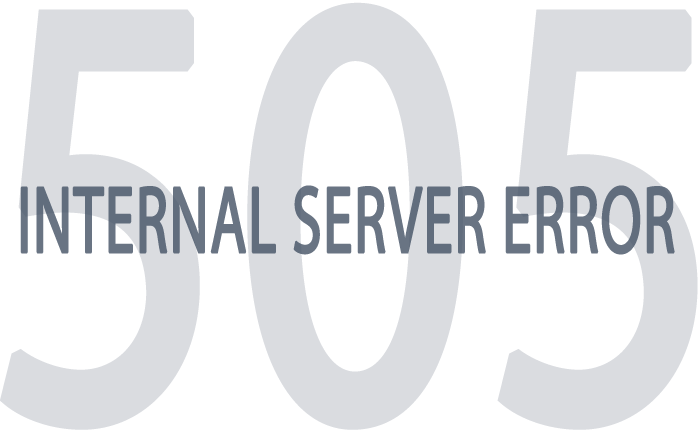
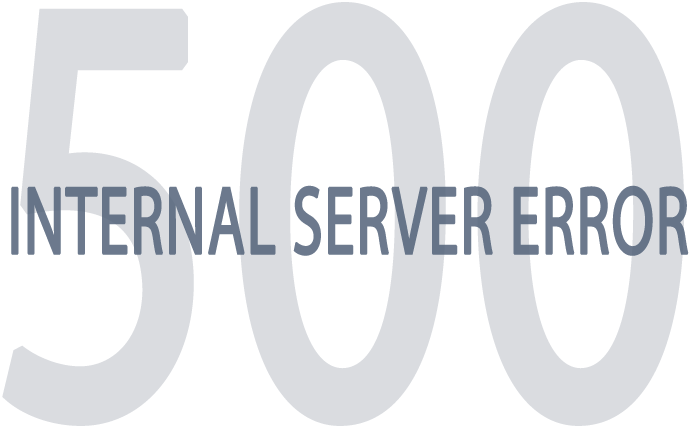
create Routing, update images name

diff --git a/frontend/src/App.tsx b/frontend/src/App.tsx
@@ -1,19 +1,74 @@
 // import Login from './authentication/Login'
-// import MainNavBar from "./components/MainNavbar/MainNavBar";
-// import Home from "./page/Home";
-// import NotFound from "./page/404NotFound";
-
+import MainNavBar from "./components/MainNavbar/MainNavBar";
 import "./index.css";
+import { Routes, Route, Outlet } from "react-router-dom";
+import Profile from "./page/userprofile/Profile";
+import ImportSectionClassList from "./page/classmanagement/ImportSectionClassList";
+import ImportStudentList from "./page/tainformationmanagement/ImportStudentList";
+import MainSideBar from "./components/SideBar/MainSideBar";
+import { Col, Container, Row } from "react-bootstrap";
+import Login from "./authentication/Login";
+import NotFound from "./page/404NotFound";
 import Error500 from "./page/500Error";
+// import MainSideBar from "./components/SideBar/MainSideBar";
+
+
+const Layout = () => {
+  return (
+    <>
+      <MainNavBar />
+      <Container fluid>
+        <Row>
+          <Col xs={2} id="sidebar-wrapper">
+            <MainSideBar />
+          </Col>
+          <Col xs={10} id="page-content-wrapper">
+           <Outlet /> 
+          </Col>
+        </Row>
+      </Container>
+    </>
+  )
+}
 
 function App() {
   return (
-    <div className="">
-      {/* <Login />
-      <MainNavBar />
-      <Home /> */}
-      {/* <NotFound /> */}
-      <Error500 />
+    <div>
+        <Routes>
+          <Route element={<Layout />}>
+            <Route path="/" element={<></>} />
+            <Route path="/user-profile" element={<Profile />} />
+            <Route path="/ta-information-management">
+              <Route path="schedule" element="" />
+              <Route path="ta-register" element="" />
+              <Route path="class-information" element="" />
+              <Route path="ta-register-list" element="" />
+              <Route path="import-student-list" element={<ImportStudentList />} />
+            </Route>
+
+            <Route path="/task-mission-magagement" element="">
+              <Route path="task-mission" element="" />
+              <Route path="feedbacks-ta" element="" />
+            </Route>
+
+            <Route path="/class-management" element="">
+              <Route
+                path="import-setion-class-list"
+                element={<ImportSectionClassList />}
+              />
+              <Route path="attendance" element="" />
+            </Route>
+
+            <Route path="/feedback-and-statistic" element="">
+              <Route path="feedbacks" element="" />
+              <Route path="statistic" element="" />
+            </Route>
+          </Route>
+          <Route path="/login" element={<Login />} />
+          <Route path="/404" element={<NotFound />} />
+          <Route path="/500" element={<Error500 />} />
+          <Route path="*" element={<NotFound />} />
+        </Routes>
     </div>
   );
 }

diff --git a/frontend/src/components/SideBar/MainSideBar.tsx b/frontend/src/components/SideBar/MainSideBar.tsx
@@ -1,5 +1,16 @@
-import { Accordion, NavLink } from "react-bootstrap";
+import { Accordion } from "react-bootstrap";
+import { Link } from "react-router-dom";
 import "../../index.css";
+
+type LinkItemProps = React.PropsWithChildren & {
+  to: string
+}
+
+const LinkItem = ({to, children}: LinkItemProps) => {
+  return (
+    <Link to={to} className="nav-link">{children}</Link>
+  )
+}
 
 const MainSideBar = () => {
   return (
@@ -8,32 +19,32 @@ const MainSideBar = () => {
         <Accordion.Item eventKey="0">
           <Accordion.Header>Quản lý thông tin trợ giảng</Accordion.Header>
           <Accordion.Body>
-            <NavLink href="">Thời khoá biểu</NavLink>
-            <NavLink href="">Đăng ký trợ giảng</NavLink>
-            <NavLink href="">Thông tin lớp học</NavLink>
-            <NavLink href="">Danh sách đăng ký TA</NavLink>
-            <NavLink href="">Import DSSV</NavLink>
+            <LinkItem to="/ta-information-management/schedule">Thời khoá biểu</LinkItem>
+            <LinkItem to="">Đăng ký trợ giảng</LinkItem>
+            <LinkItem to="">Thông tin lớp học</LinkItem>
+            <LinkItem to="/ta-register-list">Danh sách đăng ký TA</LinkItem>
+            <LinkItem to="/ta-information-management/import-student-list">Import DSSV</LinkItem>
           </Accordion.Body>
         </Accordion.Item>        
         <Accordion.Item eventKey="1">
           <Accordion.Header>Quản lý nhiệm vụ trợ giảng</Accordion.Header>
           <Accordion.Body>
-            <NavLink href="">Nhiệm vụ</NavLink>
-            <NavLink href="">Đánh giá TA</NavLink>
+            <LinkItem to="">Nhiệm vụ</LinkItem>
+            <LinkItem to="">Đánh giá TA</LinkItem>
           </Accordion.Body>
         </Accordion.Item>
         <Accordion.Item eventKey="2">
           <Accordion.Header>Quản lý lớp học</Accordion.Header>
           <Accordion.Body>
-            <NavLink href="">Import DS lớp học phần</NavLink>
-            <NavLink href="../../page/ImportSectionClassList.tsx">Điểm danh lớp học phần</NavLink>
+            <LinkItem to="">Import DS lớp học phần</LinkItem>
+            <LinkItem to="">Điểm danh lớp học phần</LinkItem>
           </Accordion.Body>
         </Accordion.Item>
         <Accordion.Item eventKey="3">
           <Accordion.Header>Đánh giá - Thống kê</Accordion.Header>
           <Accordion.Body>
-            <NavLink href="">Đánh giá</NavLink>
-            <NavLink href="">Thống kê</NavLink>
+            <LinkItem to="">Đánh giá</LinkItem>
+            <LinkItem to="">Thống kê</LinkItem>
           </Accordion.Body>
         </Accordion.Item>
         <Accordion.Header>Chat</Accordion.Header>

diff --git a/frontend/src/page/Home.tsx b/frontend/src/page/Home.tsx
@@ -1,10 +1,11 @@
 import MainSideBar from "../components/SideBar/MainSideBar";
 import { Col, Container, Row } from "react-bootstrap";
 import "../index.css"
-import Profile from "./userprofile/Profile";
+// import Profile from "./userprofile/Profile";
 // import ImportStudentList from "./tainformationmanagement/ImportStudentList";
 // import MainContent from "../components/SideBar/MainContent";
 // import ImportSectionClassList from "./ImportSectionClassList";
+
 
 const Home = () => {
   return (
@@ -15,10 +16,7 @@ const Home = () => {
             <MainSideBar />
           </Col>
           <Col xs={10} id="page-content-wrapper">
-            {/* <MainContent /> */}
-            {/* <ImportSectionClassList /> */}
-            {/* <ImportStudentList /> */}
-            <Profile />
+            
           </Col>
         </Row>
       </Container>

diff --git a/frontend/src/page/404NotFound.tsx b/frontend/src/page/404NotFound.tsx
@@ -6,14 +6,14 @@ const NotFound = () => {
     <div className="text-center ">
       <div className="py-5">
         <Image
-          src={"/pngwing.com.png"}
+          src={"/404.png"}
           alt="not-found"
           style={{ width: "700px" }}
         />
       </div>
       <a href="/" className="display-6">
         <Image
-          src="/404.png"
+          src="/vlu-logo.png"
           alt="logo"
           style={{ width: "45px", marginRight: "10px" }}
         />

diff --git a/frontend/src/page/500Error.tsx b/frontend/src/page/500Error.tsx
@@ -7,13 +7,13 @@ const Error500 = () => {
       <div className="py-5">
         <Image
           src={"/500.png"}
-          alt="not-found"
+          alt="500-server-error"
           style={{ width: "700px" }}
         />
       </div>
       <a href="/" className="display-6">
         <Image
-          src="/4d0e71c6d259566f70101baa07154e47.png"
+          src="/vlu-logo.png"
           alt="logo"
           style={{ width: "45px", marginRight: "10px" }}
         />

diff --git a/frontend/src/main.tsx b/frontend/src/main.tsx
@@ -3,10 +3,13 @@ import ReactDOM from 'react-dom/client'
 import App from './App.tsx'
 import './index.css'
 import 'react-bootstrap'
+import { BrowserRouter } from 'react-router-dom'
 
 
 ReactDOM.createRoot(document.getElementById('root')!).render(
   <React.StrictMode>
-    <App />
+    <BrowserRouter>
+      <App />
+    </BrowserRouter>
   </React.StrictMode>,
 )

diff --git a/frontend/src/page/classmanagement/ImportSectionClassList.tsx b/frontend/src/page/classmanagement/ImportSectionClassList.tsx
@@ -1,5 +1,5 @@
 import React, { useRef } from "react";
-import "../index.css";
+import "../../index.css";
 
 const ImportSectionClassList = () => {
   const inputRef = useRef<HTMLInputElement>(null);
